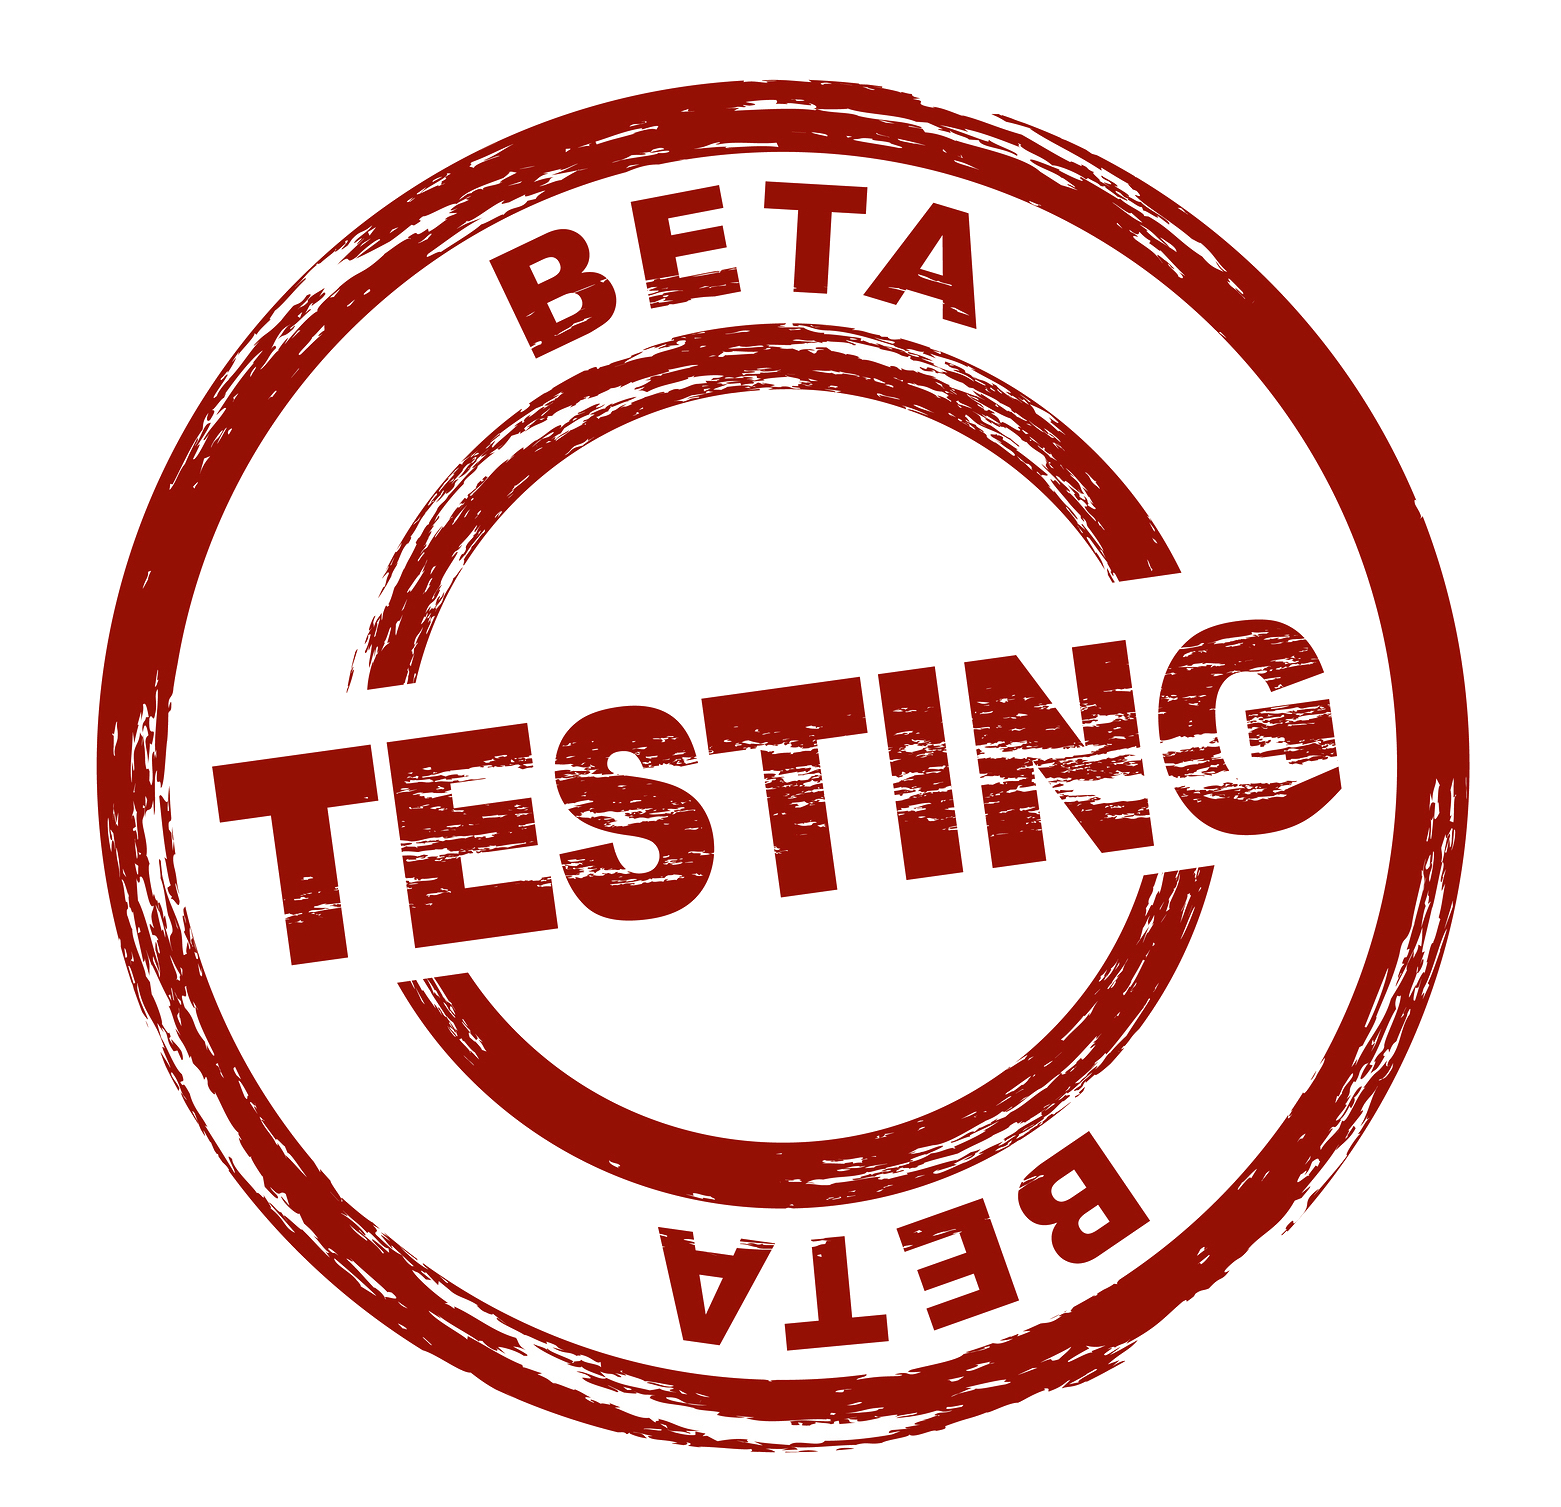
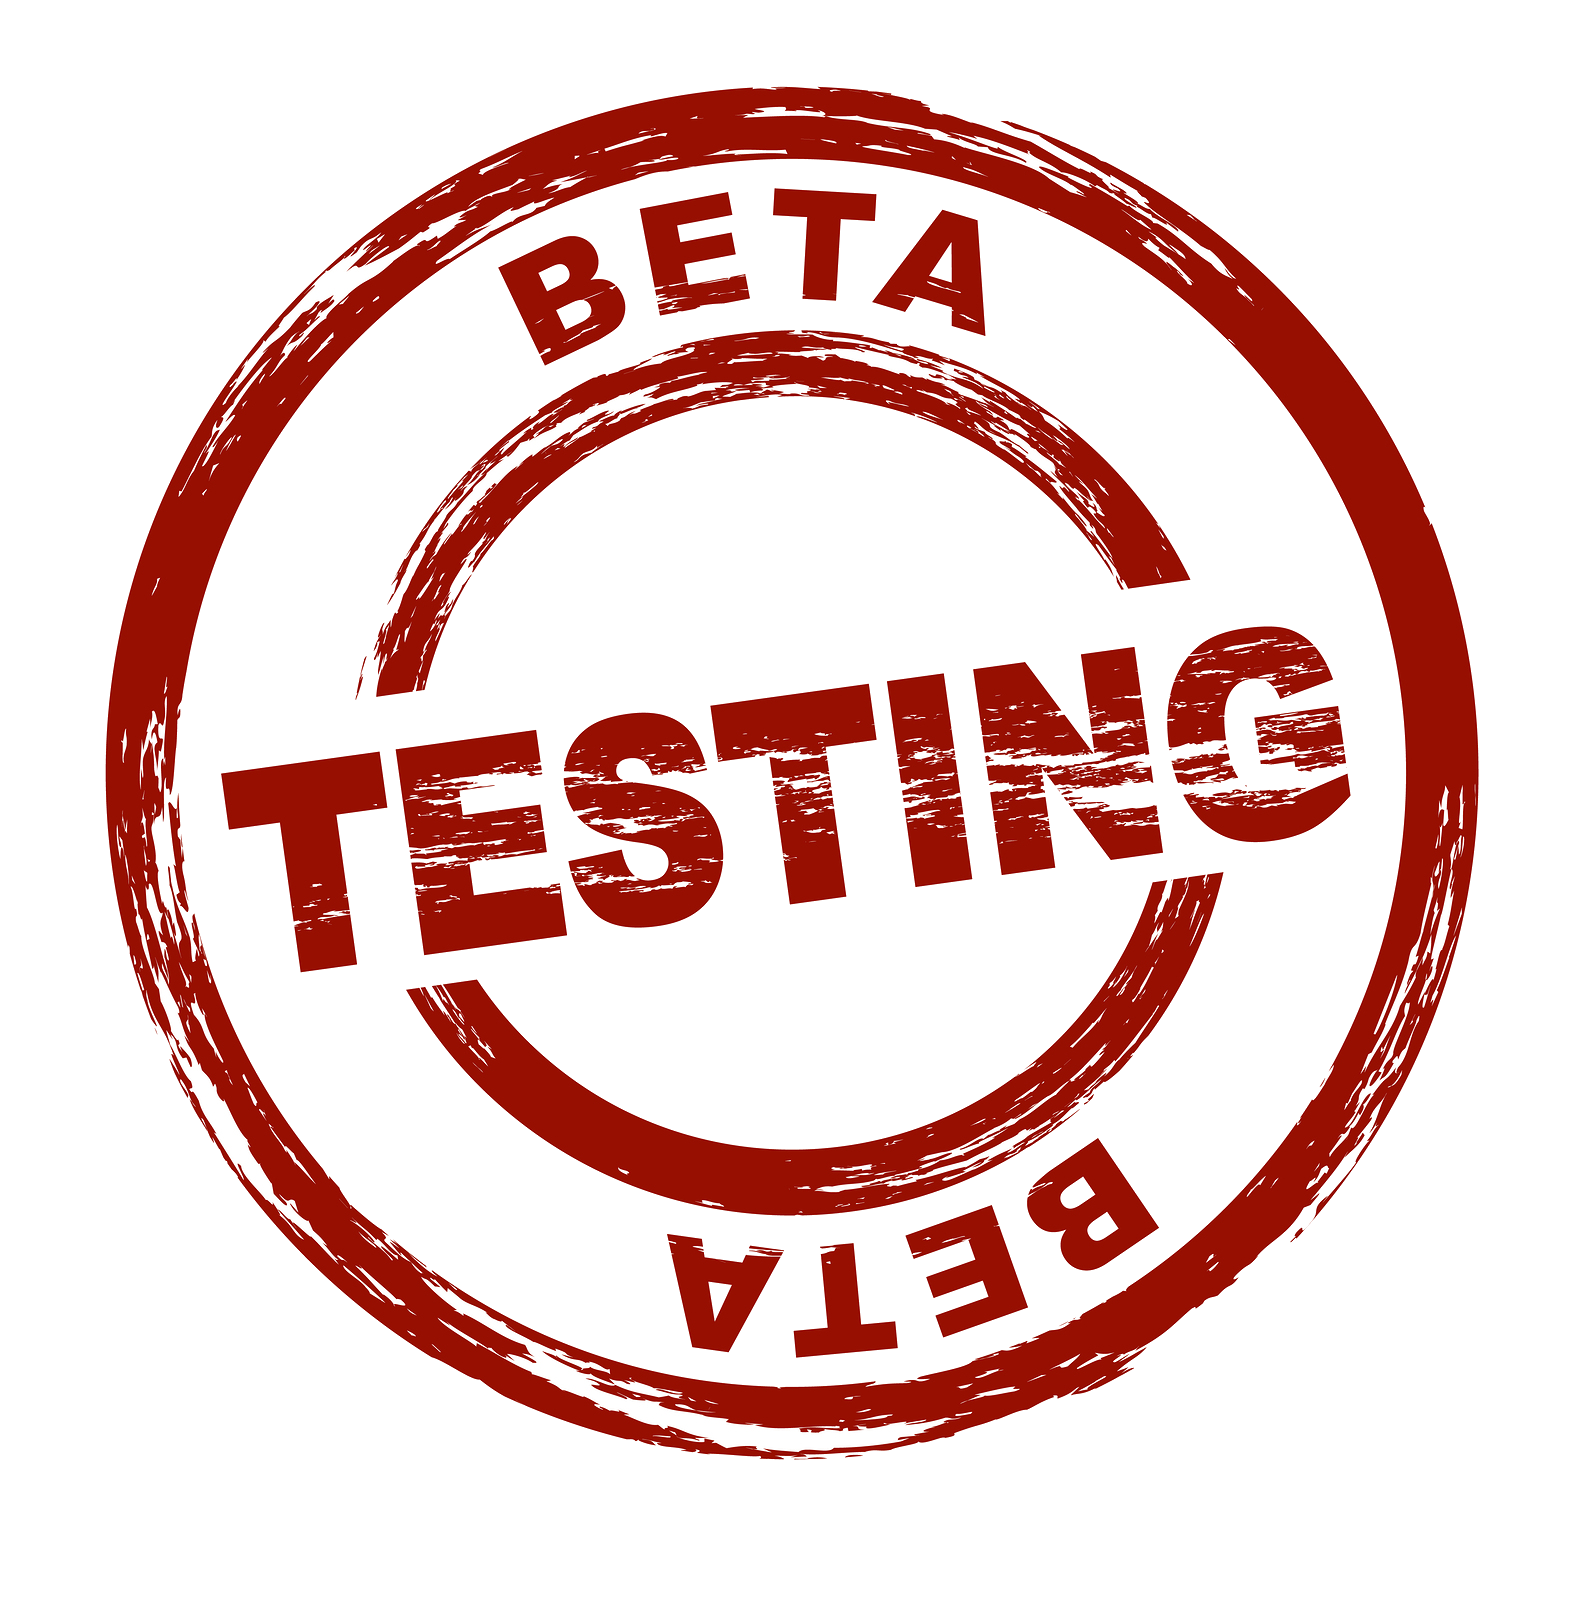
v2
v2

diff --git a/fbattle.html b/fbattle.html
@@ -2,7 +2,7 @@
 <body bgcolor='#DDDDDD'>
 
 <h2><font face='Comic Sans MS'>F-battle Character Profiler</font></h2>
-<img src='http://i.imgur.com/KgqSYxH.png' width="100" height="100"><img src='https://github.com/sethlogan/f-Battle/blob/master/beta.png' width="100" height="100"><br><br>
+<img src='http://i.imgur.com/KgqSYxH.png' width="100" height="100"><img src='http://s29.postimg.org/kizp5151x/beta.png' width="100" height="100"><br><br>
 
 <form id='myform'>
 
@@ -33,7 +33,7 @@
 <button onclick="resetAll(); return false;" id='reset_btn'>Reset Profiler</button>
 </form><br><br><br>
 
-Written in html and javascript by Slogan <a href='https://www.f-list.net/c/slogan/'><img src='images/slogan.png' width='50'></a>
+Written in html and javascript by Slogan <a href='https://www.f-list.net/c/slogan/'><img src='http://i.imgur.com/VXIOz4k.png' width='50'></a>
 
 <script>
    MAX_POINTS=100;
